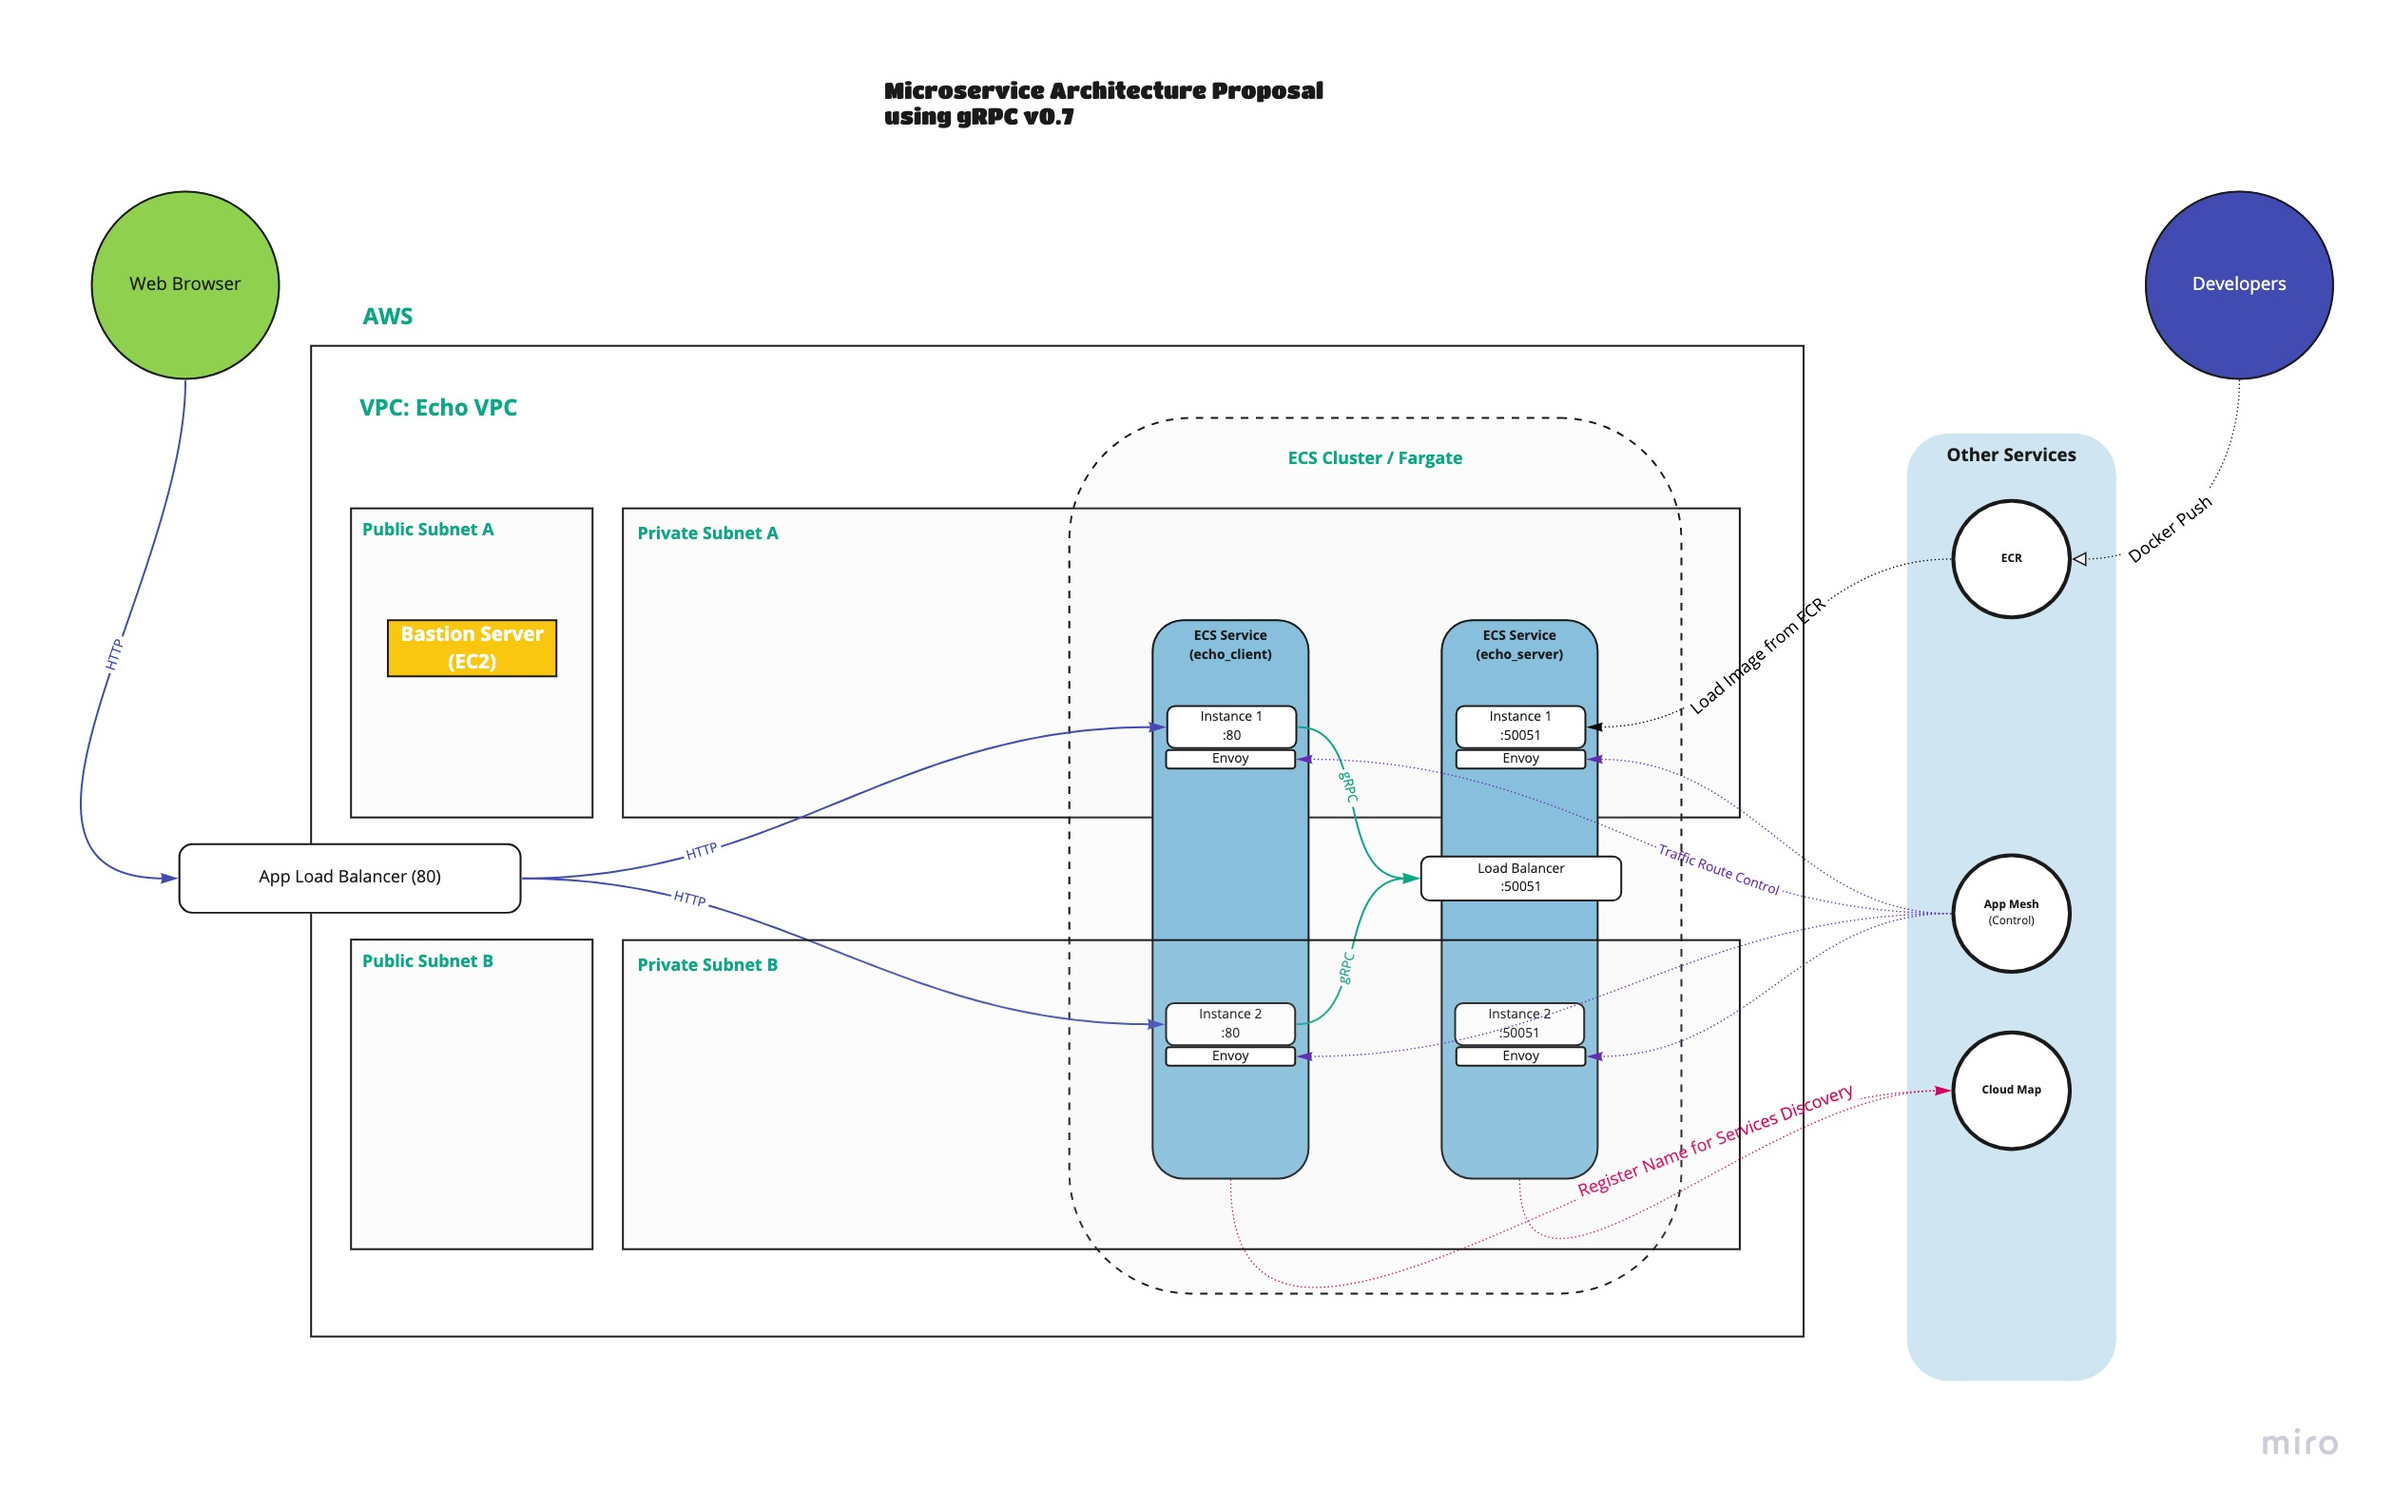
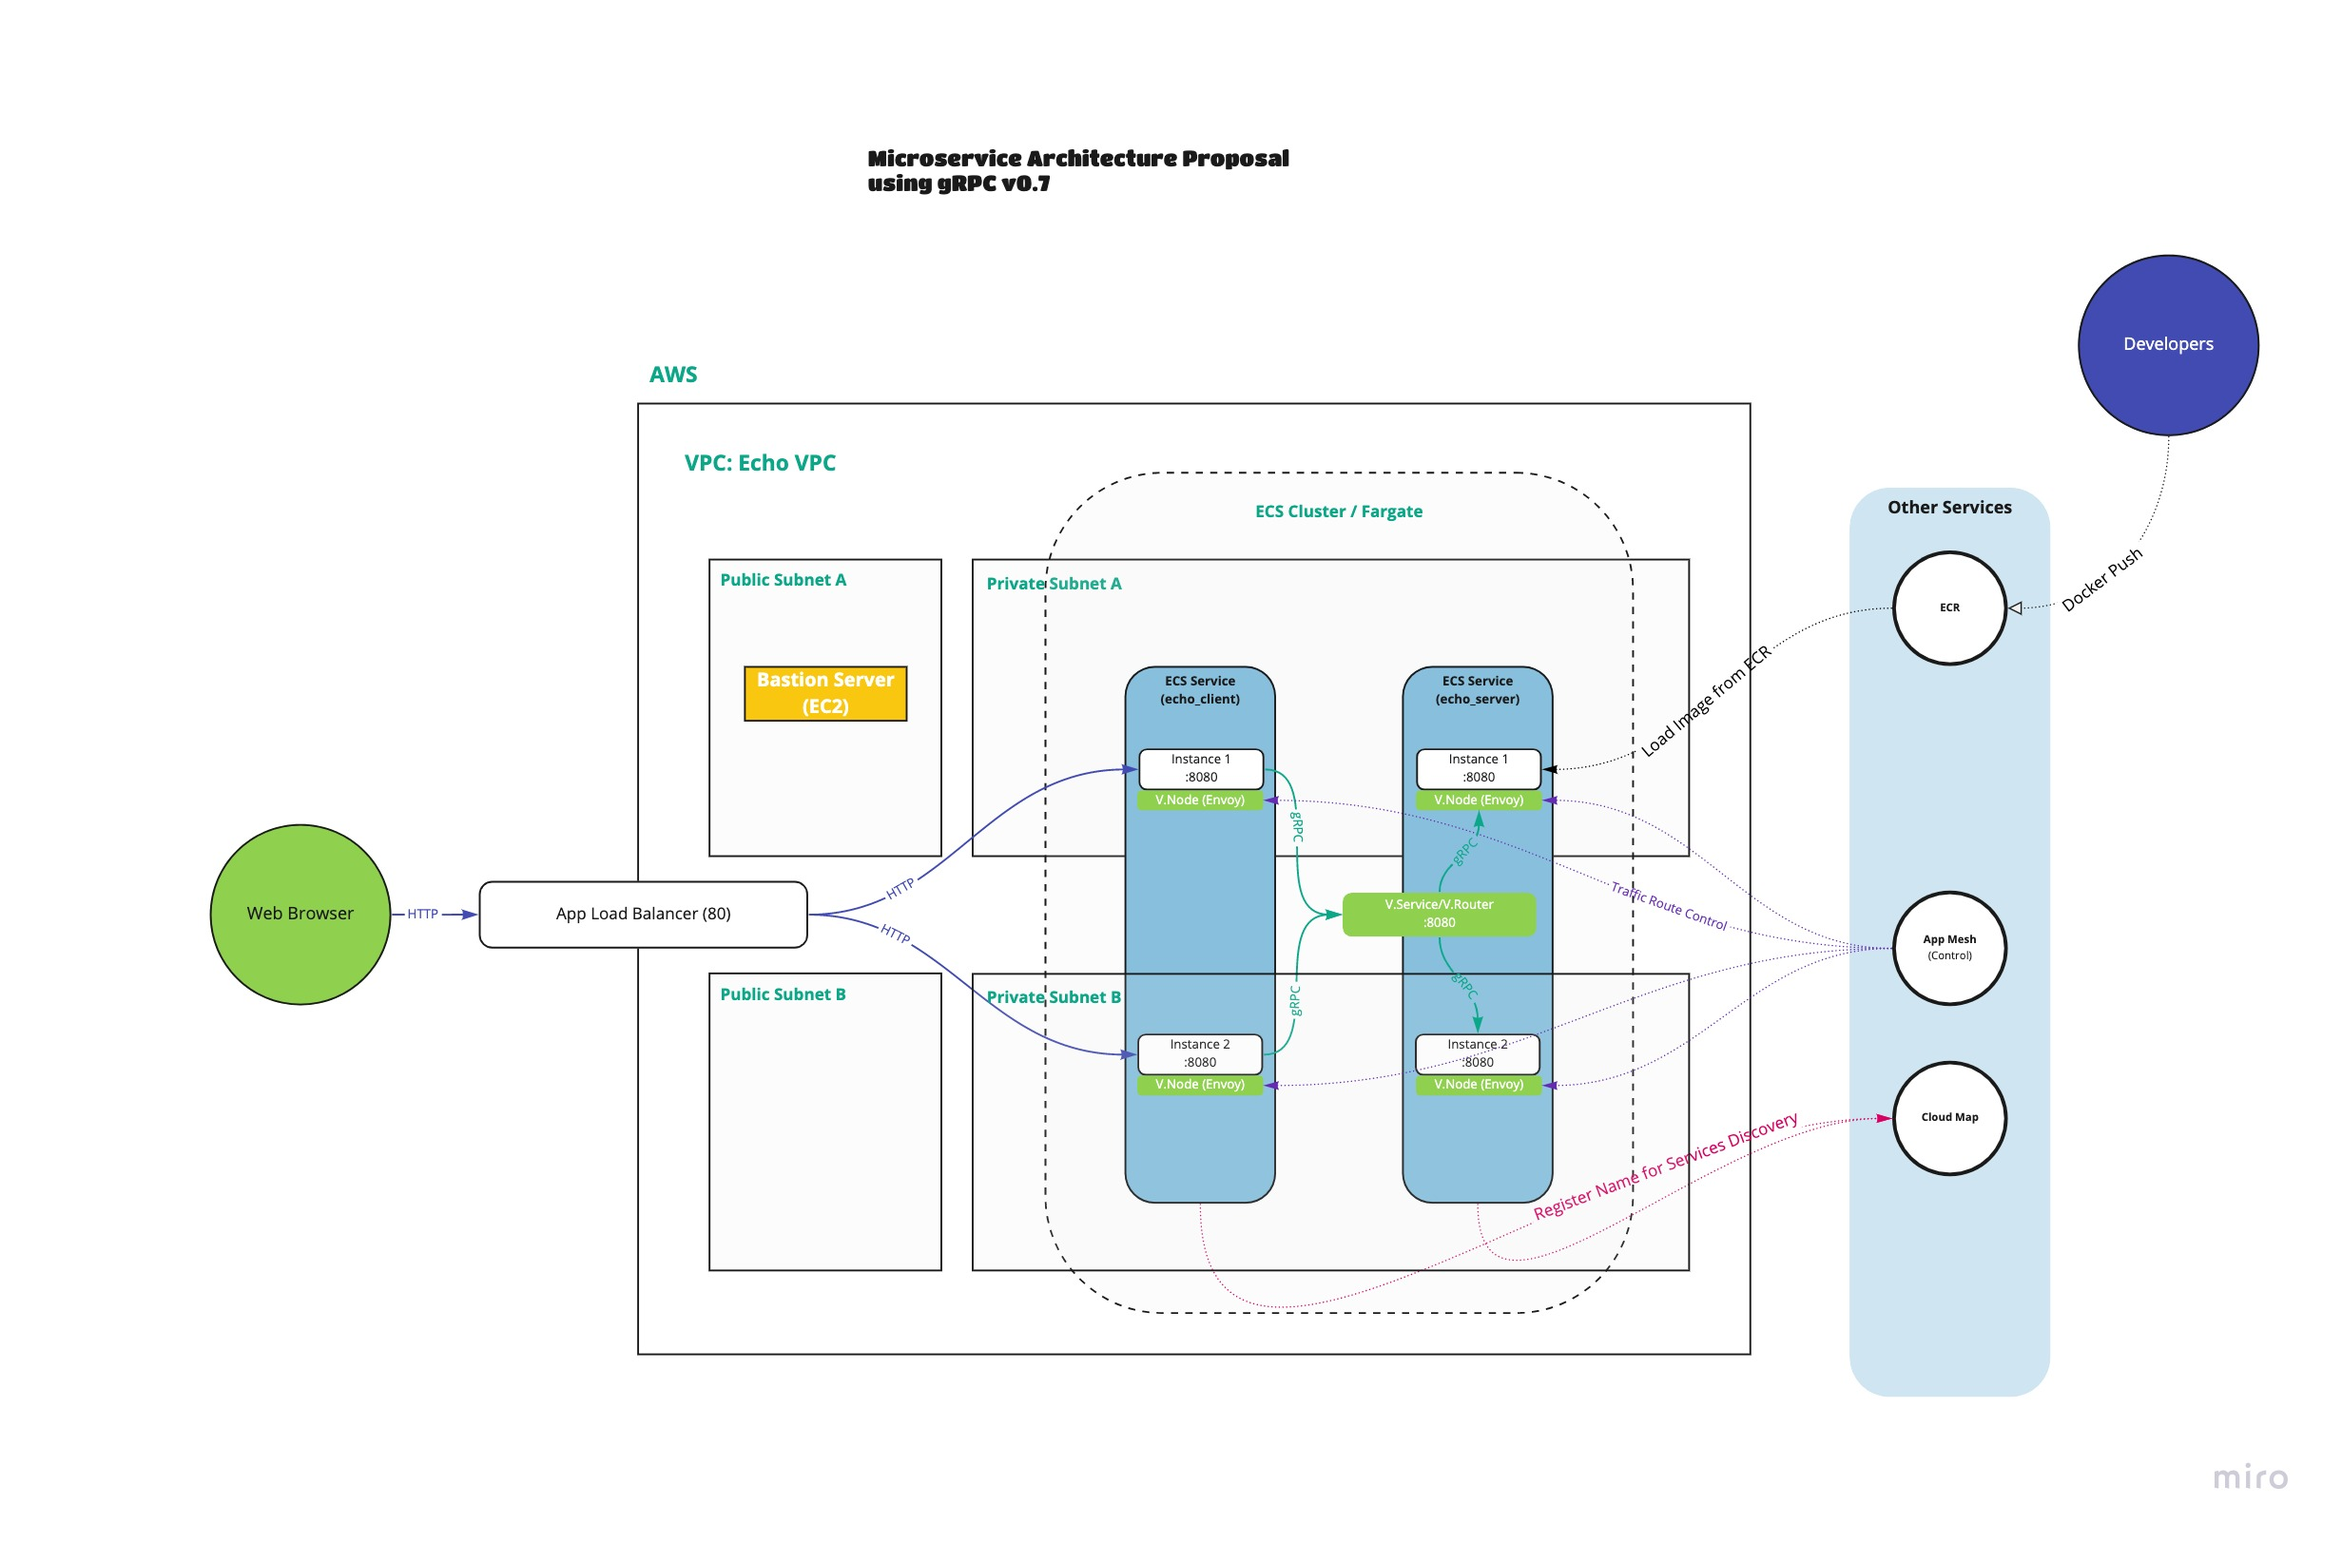
Update

diff --git a/README.md b/README.md
@@ -51,3 +51,17 @@ Congrats! You're accessing the web service supported by gRPC using App Mesh!
 Here is the diagram that explains the infrastructure:
 
 ![diagram](https://github.com/yizumi/app-mesh-example/raw/master/doc/infrastructure.jpg)
+
+Here's the data flow:
+* From the Web Browser, App Load Balancer accepts a HTTP request on port 80.
+* App Load Balacer forwards the HTTP request to one of the `echo_client` services.
+* `echo_client` service then calls `echo_server` through gRPC, proxying a virtual service and virtual router.
+* V.Router's routing forwards the traffic to one of the healthy virtual node.
+
+# Updating the server code
+
+Let's update the gRPC server written in go.
+
+```go
+
+```
